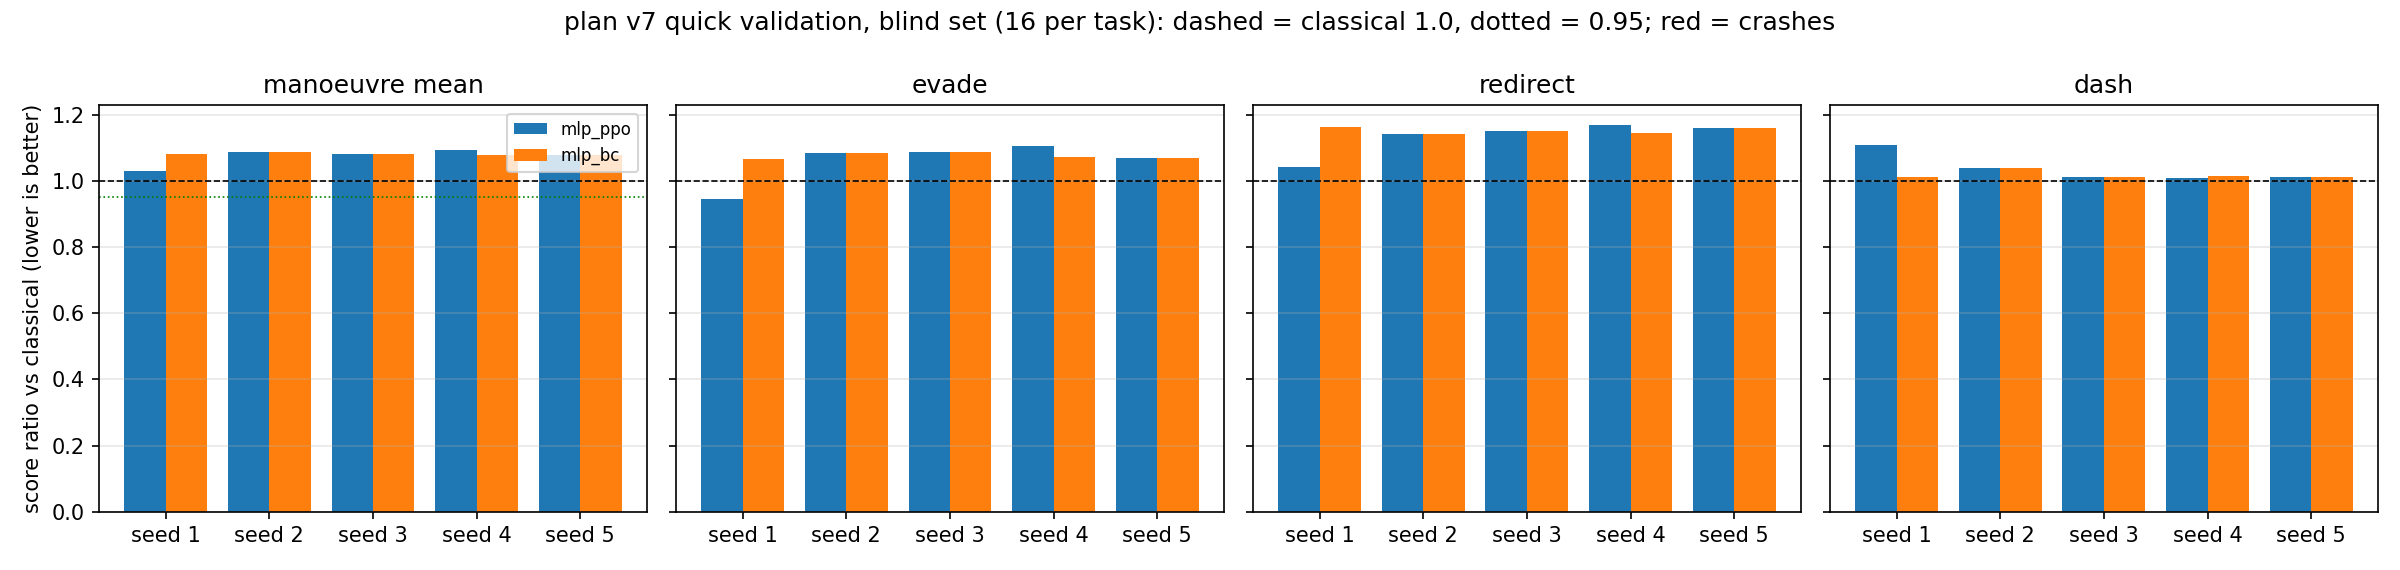
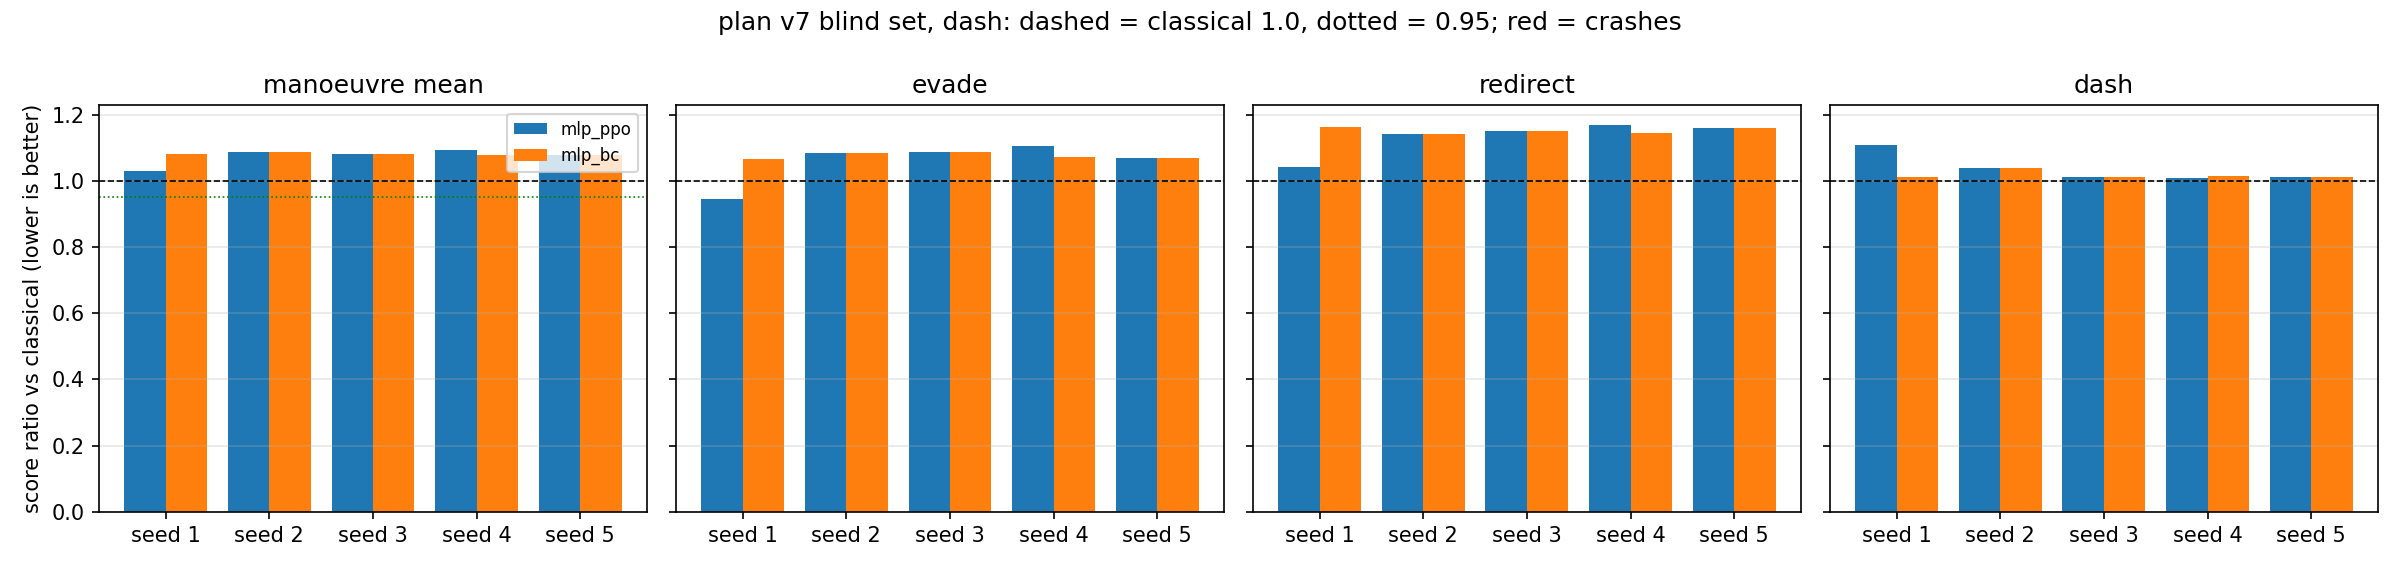
compare_v7: footnote/title as arguments (quick vs full round); full-round table footnote corrected
Claude-Session: https://claude.ai/code/session_01N2jn661WFC1NjwJgFouGnC

Changed region(s): [[0.2188, 0.0, 0.7812, 0.0596]]

diff --git a/experiments/algorithms/ppo_direct/compare_v7.py b/experiments/algorithms/ppo_direct/compare_v7.py
@@ -52,7 +52,7 @@ def fmt(x):
     return str(x)
 
 
-def write_md(rows, out):
+def write_md(rows, out, note):
     cols = ["arm", "seed", "machine", "manoeuvre_mean", "evade_ratio", "evade_pitch", "evade_roll", "evade_wins", "redirect_ratio", "redirect_pitch",
             "redirect_roll", "redirect_wins", "dash_ratio", "dash_pitch", "dash_roll", "dash_diag", "dash_wins", "crashes", "pass"]
     lines = ["| " + " | ".join(cols) + " |", "|" + "---|" * len(cols)]
@@ -67,12 +67,11 @@ def write_md(rows, out):
         lines.append(f"| {m} | {len(g)} | {mm.mean():.3f} ± {mm.std(ddof=1) if len(g) > 1 else 0:.3f} | "
                      + " | ".join(f"{np.mean([r[f'{t}_ratio'] for r in g]):.3f}" for t in TASKS) + f" | {sum(r['pass'] for r in g)}/{len(g)} |")
     lines += ["", "比值 = 该臂得分 / 该方向类 classical 对手中位数（越低越好，1.0 = 与 classical 相同）；manoeuvre mean = 三任务比值平均；"
-              f"pass：manoeuvre mean <= {M_RATIO} 且盲测零坠落（沿用 v6 的 M2 口径，v7 为快速验证，未预注册）。"
-              "盲测集 bench9 BASES['test'] = 2_098_100_000，每任务 16 例。snn_* 由 descend9 产出，mlp_* 由 v7ppo 产出。"]
+              f"pass：manoeuvre mean <= {M_RATIO} 且盲测零坠落（{note}）。snn_* 由 descend9 产出，mlp_* 由 v7ppo 产出。"]
     Path(out + ".md").write_text("\n".join(lines) + "\n")
 
 
-def plot(rows, out):
+def plot(rows, out, title):
     import matplotlib; matplotlib.use("Agg")
     import matplotlib.pyplot as plt
     arms = list(dict.fromkeys(r["arm"] for r in rows))
@@ -96,7 +95,7 @@ def plot(rows, out):
         ax.grid(axis="y", alpha=0.3)
     axes[0].set_ylabel("score ratio vs classical (lower is better)")
     axes[0].legend(fontsize=8)
-    fig.suptitle("plan v7 quick validation, blind set (16 per task): dashed = classical 1.0, dotted = 0.95; red = crashes")
+    fig.suptitle(f"plan v7 blind set, {title}: dashed = classical 1.0, dotted = 0.95; red = crashes")
     fig.tight_layout(); fig.savefig(out + ".png", dpi=150)
 
 
@@ -104,6 +103,8 @@ def main():
     p = argparse.ArgumentParser()
     p.add_argument("--dirs", nargs="+", default=["artifacts/spike_steer/plan_v7", "artifacts/spike_steer/ppo_direct/v7ppo"])
     p.add_argument("--out", default="artifacts/spike_steer/ppo_direct/v7ppo/comparison_v7")
+    p.add_argument("--note", default="v7 快速验证，未预注册；盲测集 bench9 BASES['test'] = 2_098_100_000，每任务 16 例")
+    p.add_argument("--title", default="quick validation (16 per task)")
     a = p.parse_args()
     rows = collect(a.dirs)
     if not rows:
@@ -112,8 +113,8 @@ def main():
     Path(a.out + ".json").write_text(json.dumps(rows, indent=1))
     with open(a.out + ".csv", "w", newline="") as f:
         w = csv.DictWriter(f, fieldnames=list(rows[0].keys())); w.writeheader(); w.writerows(rows)
-    write_md(rows, a.out)
-    plot(rows, a.out)
+    write_md(rows, a.out, a.note)
+    plot(rows, a.out, a.title)
     print(Path(a.out + ".md").read_text())
 
 

diff --git a/artifacts/spike_steer/ppo_direct/v7full/comparison_v7full.md b/artifacts/spike_steer/ppo_direct/v7full/comparison_v7full.md
@@ -17,4 +17,4 @@
 | mlp_ppo | 5 | 1.075 ± 0.025 | 1.057 | 1.132 | 1.035 | 0/5 |
 | mlp_bc | 5 | 1.081 ± 0.004 | 1.075 | 1.152 | 1.017 | 0/5 |
 
-比值 = 该臂得分 / 该方向类 classical 对手中位数（越低越好，1.0 = 与 classical 相同）；manoeuvre mean = 三任务比值平均；pass：manoeuvre mean <= 0.95 且盲测零坠落（沿用 v6 的 M2 口径，v7 为快速验证，未预注册）。盲测集 bench9 BASES['test'] = 2_098_100_000，每任务 16 例。snn_* 由 descend9 产出，mlp_* 由 v7ppo 产出。
+比值 = 该臂得分 / 该方向类 classical 对手中位数（越低越好，1.0 = 与 classical 相同）；manoeuvre mean = 三任务比值平均；pass：manoeuvre mean <= 0.95 且盲测零坠落（v7 正式轮 M3，预注册 preregistration_v7full.json；全新盲测集 2_098_300_000，每任务 32 例；M3 总判据 ≥ 3/5 种子通过）。snn_* 由 descend9 产出，mlp_* 由 v7ppo 产出。

diff --git a/artifacts/spike_steer/ppo_direct/v7ppo/comparison_v7.md b/artifacts/spike_steer/ppo_direct/v7ppo/comparison_v7.md
@@ -16,4 +16,4 @@
 | mlp_ppo | 2 | 1.062 ± 0.064 | 1.027 | 1.115 | 1.043 | 0/2 |
 | mlp_bc | 2 | 1.107 ± 0.001 | 1.106 | 1.172 | 1.044 | 0/2 |
 
-比值 = 该臂得分 / 该方向类 classical 对手中位数（越低越好，1.0 = 与 classical 相同）；manoeuvre mean = 三任务比值平均；pass：manoeuvre mean <= 0.95 且盲测零坠落（沿用 v6 的 M2 口径，v7 为快速验证，未预注册）。盲测集 bench9 BASES['test'] = 2_098_100_000，每任务 16 例。snn_* 由 descend9 产出，mlp_* 由 v7ppo 产出。
+比值 = 该臂得分 / 该方向类 classical 对手中位数（越低越好，1.0 = 与 classical 相同）；manoeuvre mean = 三任务比值平均；pass：manoeuvre mean <= 0.95 且盲测零坠落（v7 快速验证，未预注册；盲测集 bench9 BASES['test'] = 2_098_100_000，每任务 16 例）。snn_* 由 descend9 产出，mlp_* 由 v7ppo 产出。
